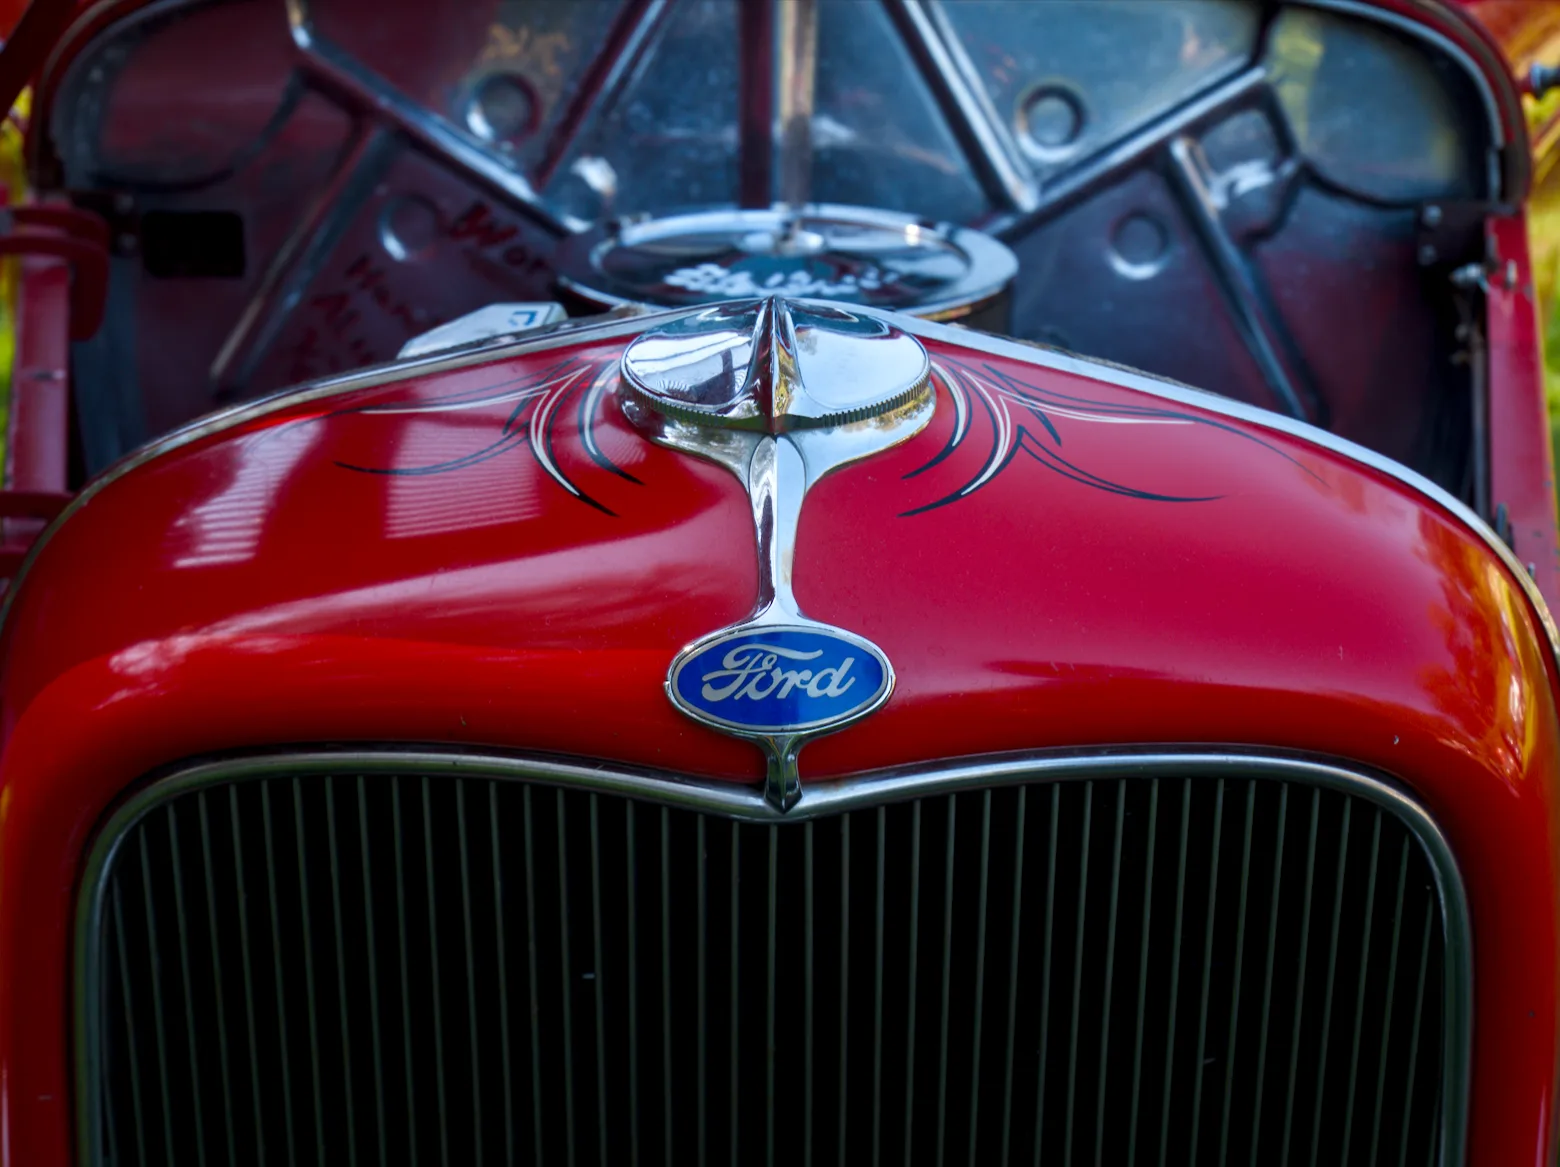
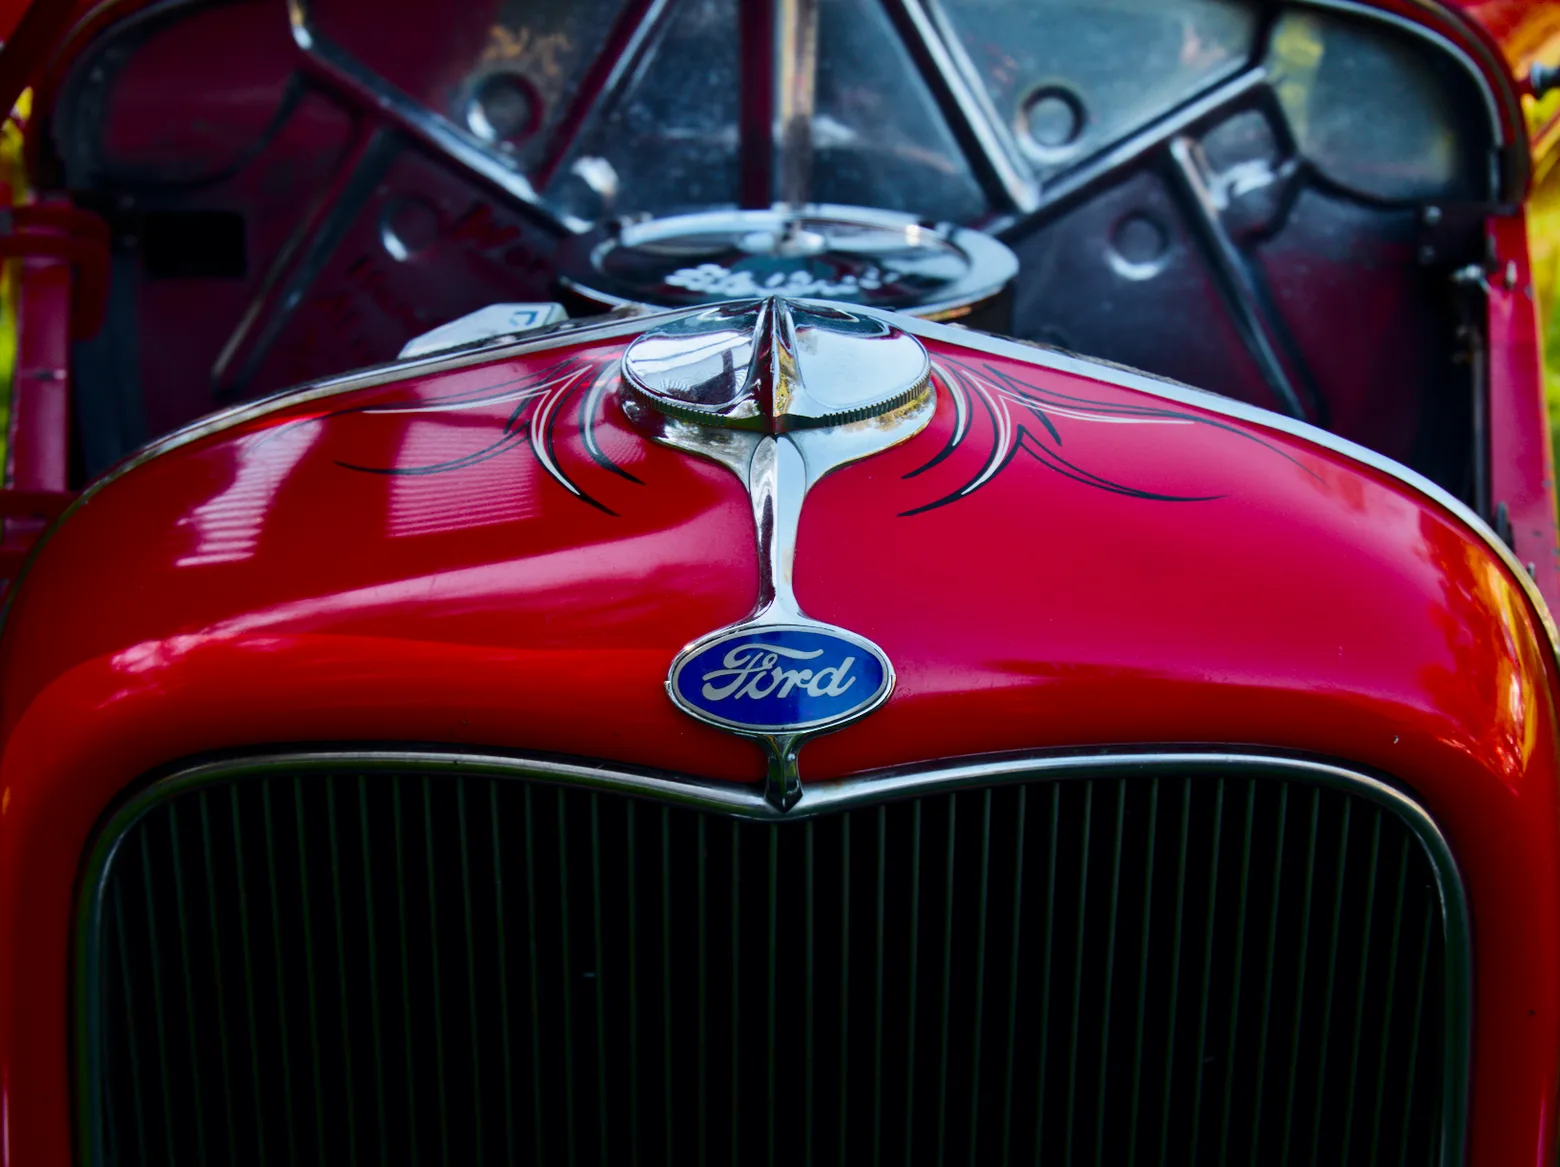
Update the site for 0.42.0
Build the guide and release notes from release-0.42.0 while the downloads
stay on the latest release. Add Film simulation and Print feature rows, a
flat before and Kodachrome 64 after in the compare slider, and credit the
looks' author.

diff --git a/src/lib/features.ts b/src/lib/features.ts
@@ -25,7 +25,7 @@ export const features: Feature[] = [
     compare: {
       before: "media/basic-before.webp",
       after: "media/basic-after.webp",
-      alt: "A raw photo of the front of a red vintage Ford, as shot and with Basic contrast, highlights, shadows, clarity and vibrance",
+      alt: "A raw photo of the front of a red vintage Ford, flat with every edit reset, and edited with Basic contrast, highlights and shadows plus the Kodachrome 64 film look",
       width: 1560,
       height: 1167,
     },
@@ -91,7 +91,7 @@ export const features: Feature[] = [
     id: "looks",
     guide: "presets-and-looks",
     title: "Presets and 53 film looks",
-    lede: "Presets set sliders with an Amount; looks are film emulations with their own strength. Both preview live on your photo.",
+    lede: "Presets set sliders with an Amount; looks are film emulations from João Almeida's t3mujinpack, with their own strength. Both preview live on your photo.",
     points: [],
     media: {
       src: "media/presets.webp",
@@ -114,6 +114,22 @@ export const features: Feature[] = [
     },
   },
   {
+    id: "film-simulation",
+    guide: "film-simulation",
+    title: "Film simulation",
+    lede: "Render a photo as a film stock exposed, developed and printed on a paper, or scanned, with darktable's spektrafilm. It works from measured data of real films and papers, so you get their color, contrast, grain and halation.",
+    points: [
+      "Pick a preset, film and paper; set exposure, color, grain and halation.",
+      "Export to Library saves a positive copy.",
+    ],
+    media: {
+      src: "media/film-simulation.webp",
+      alt: "The Film Simulation panel with Kodak Gold 200 on its matching paper, and the photo rendered with its color and grain",
+      width: 1600,
+      height: 984,
+    },
+  },
+  {
     id: "denoise",
     guide: "adjustments#detail",
     title: "AI Denoise",
@@ -126,5 +142,22 @@ export const features: Feature[] = [
     title: "Export with frames and captions",
     lede: "To a folder or straight into an Immich album, with sizes, file-name templates, borders, captions and a watermark.",
     points: [],
+  },
+  {
+    id: "print",
+    guide: "print",
+    title: "Print and soft proof",
+    lede: "Print the photo or save it as a PDF, on a to-scale page in the viewer with the photo rendered in place.",
+    points: [
+      "Printer, paper, orientation, margins, photo size and placement.",
+      "Color managed by the printer, or converted with a printer ICC profile.",
+      "Soft Proof (S) shows the photo as that profile prints it, with a gamut warning.",
+    ],
+    media: {
+      src: "media/print.webp",
+      alt: "The Print panel set to Save as PDF, with the photo placed on a Letter page in the viewer",
+      width: 1600,
+      height: 984,
+    },
   },
 ];
